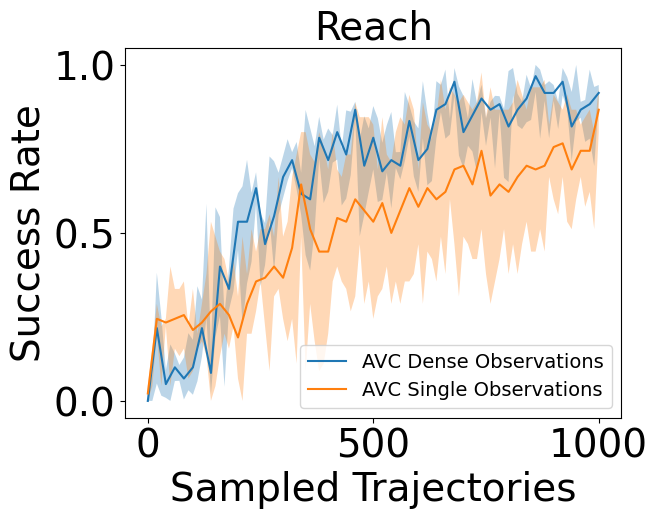
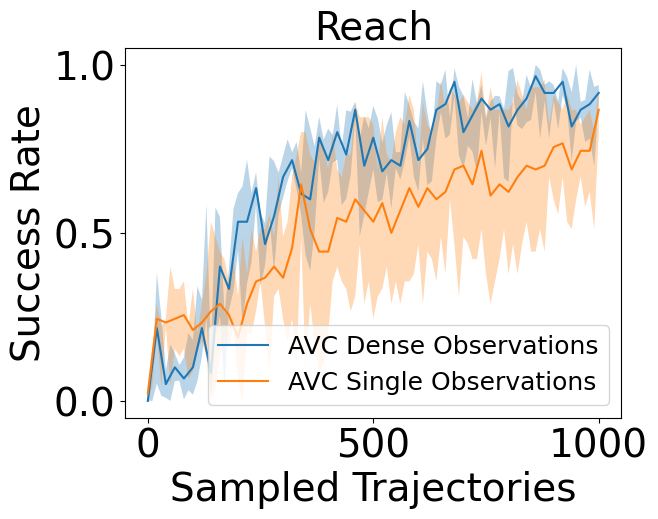
search planning method

Changed region(s): [[0.304, 0.6166, 0.9422, 0.8015]]

diff --git a/chapters/Experiments.tex b/chapters/Experiments.tex
@@ -10,7 +10,7 @@ natural language conditioned robot manipulation task benchmark as described in a
 
 Then we will use environments from the Meta-World benchmark as described in appendix \ref{chapter:MetaWorld} for both \ac{sopomdp}s and \ac{mdp}s.
 
-We first investigate the effect of different search paradigms in inference time for the \ac{avc} algorithm, as described in section Inference Time Search \ref{sec:inf_time_search}.
+We first investigate the effect of different search paradigms in inference time for the \ac{avc} algorithm, as described in Section \ref{sec:inf_time_search}.
 
 To compare our results, we use \ac{ppo} and \ac{tqc} for the \ac{rl} algorithms, as they are state-of-the-art with respect to stability and 
 exploration respectively. For the base implementations, we use "Stable Baselines3" \cite{stable-baselines3}, which is a common choice, as it provides well-implemented algorithms with tested
@@ -226,26 +226,27 @@ Following the insights presented in this section, we will use the actor planner 
   \centering
   \begin{subfigure}[t]{0.45\textwidth}
     \includegraphics[width=\textwidth]{images/4_400/Window Open.png}
-    \caption{Window Open environment, 4 expert demonstrations.}
+    \caption{Four expert demonstrations.}
   \end{subfigure}
   \begin{subfigure}[t]{0.45\textwidth}
     \includegraphics[width=\textwidth]{images/4_400/Reach.png}
-    \caption{Reach environment, 4 expert demonstrations.}
+    \caption{Four expert demonstrations.}
   \end{subfigure}
   \medskip
   \begin{subfigure}[t]{0.45\textwidth}
     \includegraphics[width=\textwidth]{images/15_400/Push.png}
-    \caption{Push environment, 15 expert demonstrations.}
+    \caption{15 expert demonstrations.}
   \end{subfigure}
   \begin{subfigure}[t]{0.45\textwidth}
     \includegraphics[width=\textwidth]{images/15_400/Pick and Place.png}
-    \caption{Pick and Place environment, 15 expert demonstrations.}
+    \caption{15 expert demonstrations.}
   \end{subfigure}
   \caption{
     All baselines were pretrained using behavioral cloning with the given number of expert demonstrations. 
     The horizontal axis shows the number of sampled environment episodes, each with 100 steps. 
     One initial observation and, for \ac{rl}, a sparse reward signal at the end of each episode was provided. 
-    The shaded area indicates the standard deviations from four runs per experiment.}
+    The shaded area indicates the standard deviations from four runs per experiment. \ac{ppo} and \ac{tqc} use \ac{gail} to 
+    provide dense rewards.}
     \label{fig:finetuning}
 \end{figure}
 
@@ -316,12 +317,12 @@ are shown in Figure \ref{fig:guided_ref}.
     \medskip
     \begin{subfigure}[t]{0.45\textwidth}
       \includegraphics[width=\textwidth]{images/1_2000_imi/Reach.png}
-      \caption{Reach environment. Comparison between pure \ac{il} and \ac{rl}.}
+      \caption{Comparison between pure \ac{il} and \ac{rl}.}
     \end{subfigure}
     \hfill
     \begin{subfigure}[t]{0.45\textwidth}
       \includegraphics[width=\textwidth]{images/1_2000_imi/Window Open.png}
-      \caption{Window Open environment. Comparison between pure \ac{il} and \ac{rl}.}
+      \caption{Comparison between pure \ac{il} and \ac{rl}.}
     \end{subfigure}
     \caption{
     All baselines were pretrained using behavioral cloning with the given number of expert demonstrations, where demonstrations were provided. 
@@ -383,28 +384,36 @@ and compare \ac{coavc} to \ac{ppo} and \ac{tqc} on the Reach, Window Open and Dr
 providing an observation per time step,
 we use the same setup as described in previous sections. The results are shown in Figure \ref{fig:dense_ref} for three runs per experiment.
 
+
 \begin{figure}[htbp]
   \centering
-  \begin{subfigure}[t]{0.45\textwidth}
-    \includegraphics[width=\textwidth]{images/dense_1/Reach.png}
+  \begin{subfigure}[t]{0.32\textwidth}
+    \includegraphics[width=\textwidth]{images/dense_1_big_font/Reach.png}
     \caption{One expert demonstration.}
   \end{subfigure}
-  \hfill
-  \begin{subfigure}[t]{0.45\textwidth}
-    \includegraphics[width=\textwidth]{images/dense_0/Drawer Close.png}
-    \caption{No expert demonstrations.}
-  \end{subfigure}
-  \medskip
-  \begin{subfigure}[t]{0.45\textwidth}
+  \begin{subfigure}[t]{0.32\textwidth}
     \includegraphics[width=\textwidth]{images/dense_1/Window Open.png}
     \caption{One expert demonstration.}
   \end{subfigure}
-  \hfill
-  \begin{subfigure}[t]{0.45\textwidth}
+  \begin{subfigure}[t]{0.32\textwidth}
     \includegraphics[width=\textwidth]{images/TQC_bc_GAIL_vs_ref/Window Open.png}
     \caption{Comparison between \ac{tqc} with no expert demonstrations and expert guided baselines.}
     \label{fig:TQC_0_vs_exp}
   \end{subfigure}
+
+  \begin{subfigure}[t]{0.32\textwidth}
+    \includegraphics[width=\textwidth]{images/dense_0/Reach.png}
+    \caption{No expert demonstrations.}
+  \end{subfigure}
+  \begin{subfigure}[t]{0.32\textwidth}
+    \includegraphics[width=\textwidth]{images/dense_0/Window Open.png}
+    \caption{No expert demonstrations.}
+  \end{subfigure}
+  \begin{subfigure}[t]{0.32\textwidth}
+    \includegraphics[width=\textwidth]{images/dense_0/Drawer Close.png}
+    \caption{No expert demonstrations.}
+  \end{subfigure}
+
   \caption{All baselines were pretrained using behavioral cloning with the given number of expert demonstrations. 
     The x-axis shows the number of sampled environment episodes, each with 100 steps. 
     Continued observations and a sparse reward signal at the end of each episode was provided. 
@@ -439,8 +448,8 @@ the authors mentioned in the paper \cite{ho2016generative}, that \ac{gail} is no
 environment interactions are needed, before the discriminator of \ac{gail} provides useful rewards for the learner. We suppose that is a reason, why \ac{gail} does not perform 
 well in our setting, where a relatively small amount of environment interactions are used.
 
-We also included results for the Drawer Close environment with no expert demonstrations. All algorithms perform better than in the single observation environment, 
-but \ac{coavc} is the only algorithm with stable performance. It found a solution with near perfect success rate in all three runs quickly.
+We also included results for the Reach, Window Open and Drawer Close environment with no expert demonstrations. All algorithms perform better than in the single observation environment, 
+but \ac{coavc} converges significantly quicker then all baselines, further showcasing the improved sample efficiency and more stable update behavior over actor critic methods.
 
 Overall, \ac{coavc} performs well in all shown environments. Especially in the Reach environment it is the only algorithm that finds a feasible solution while it 
 converges much quicker and has a more robust behavior in general. 

diff --git a/chapters/Appendix.tex b/chapters/Appendix.tex
@@ -197,9 +197,11 @@ simulator capable of simulating object interactions such as puck grasping or win
       \includegraphics[width=\textwidth]{images/15_400/Pick and Place.png}
       \caption{Pick and Place environment.}
     \end{subfigure}
-    \caption{All learners were pretrained using behavioral cloning with the given 15 expert demonstrations. 
-    The x-axis shows the number of sampled environment episodes, each with 100 steps.  One initial observation and a sparse reward signal at the end of each episode was provided. 
-    The shaded area indicates the standard deviations from four runs per experiment.}
+    \caption{All baselines were pretrained using behavioral cloning with 15 expert demonstrations. 
+    The horizontal axis shows the number of sampled environment episodes, each with 100 steps. 
+    One initial observation and, for \ac{rl}, a sparse reward signal at the end of each episode was provided. 
+    The shaded area indicates the standard deviations from four runs per experiment. \ac{ppo} and \ac{tqc} use \ac{gail} to 
+    provide dense rewards.}
 \end{figure}
 
 \begin{figure}[htbp]
@@ -223,9 +225,11 @@ simulator capable of simulating object interactions such as puck grasping or win
     \includegraphics[width=\textwidth]{images/4_400/Pick and Place.png}
     \caption{Pick and Place environment.}
   \end{subfigure}
-  \caption{All learners were pretrained using behavioral cloning with the given 4 expert demonstrations. 
-  The x-axis shows the number of sampled environment episodes, each with 100 steps.  One initial observation and a sparse reward signal at the end of each episode was provided. 
-  The shaded area indicates the standard deviations from four runs per experiment.}
+  \caption{All baselines were pretrained using behavioral cloning with four expert demonstrations. 
+  The horizontal axis shows the number of sampled environment episodes, each with 100 steps. 
+  One initial observation and, for \ac{rl}, a sparse reward signal at the end of each episode was provided. 
+  The shaded area indicates the standard deviations from four runs per experiment. \ac{ppo} and \ac{tqc} use \ac{gail} to 
+  provide dense rewards.}
 \end{figure}
 
 \chapter{Generative Adversarial Imitation Learning}

diff --git a/chapters/Methodology.tex b/chapters/Methodology.tex
@@ -295,10 +295,9 @@ On the seen dataset, $L_{\pi_{\text{E}}}({\pi}) = L_{\pi_{\text{E}}}({\tilde{\pi
 This leaves us with the question of how to append the dataset $\mathcal{D}_{\text{E}}$ to improve our policy beyond what it can learn from the 
 initial set of expert trajectories.
 
-To do this, we propose to use 
-a search based method using the critic in inference time.
+To do this, we propose to use a planning and search based method using the critic in inference time.
 
-Let $a = \pi(s)$ be the action sequence proposed by the actor and $C_{\theta, s, a_{1:T}}(t)$ be the predicted rewards by the critic. 
+Let $a = \pi(s)$ be the planned action sequence proposed by the actor and $C_{\theta, s, a_{1:T}}(t)$ be the predicted rewards by the critic. 
 We can now find the gradient of the predicted cumulative reward $J(a) = \sum_{t=1}^{T} C_{\theta, s, a_{1:T}}(t)$ with respect to the actions to define new actions: 
 $$a_{i+1} = a_i + \alpha_{\mathrm{inf}} \nabla_{a} J(a_i),$$ 
 with inference time learning rate $\alpha_{\mathrm{inf}}$, as the predicted rewards are a differentiable function of the actions given the critic. This step is repeated k times, to find new actions. 
